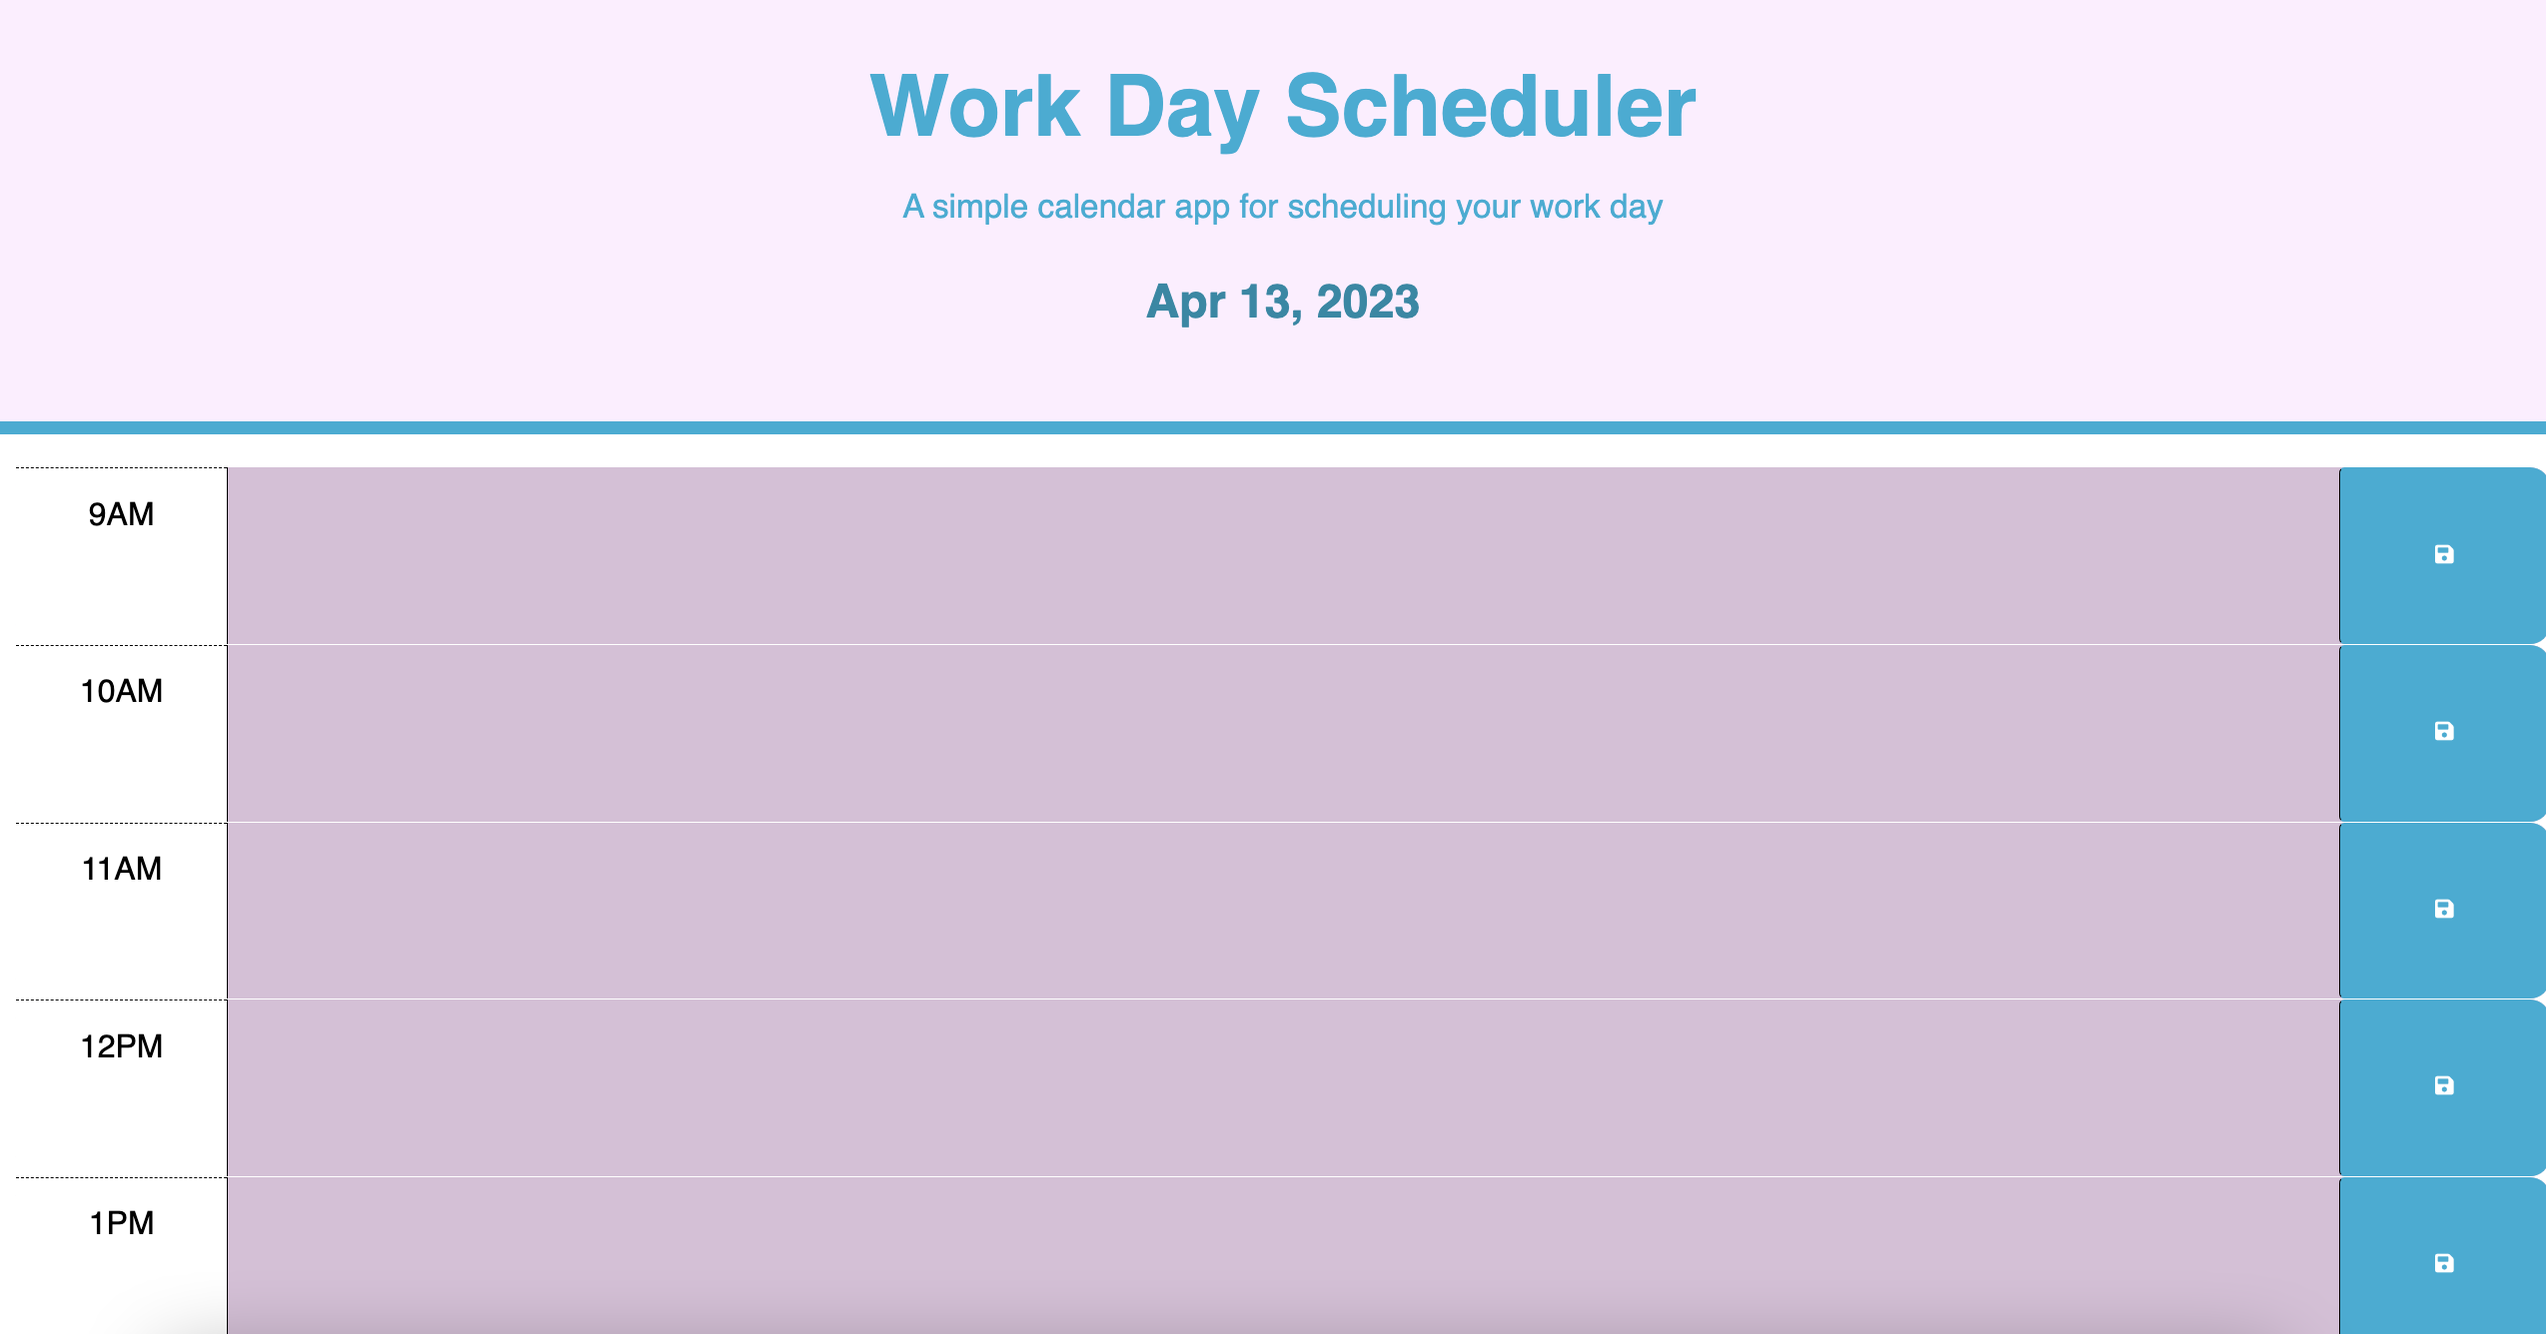
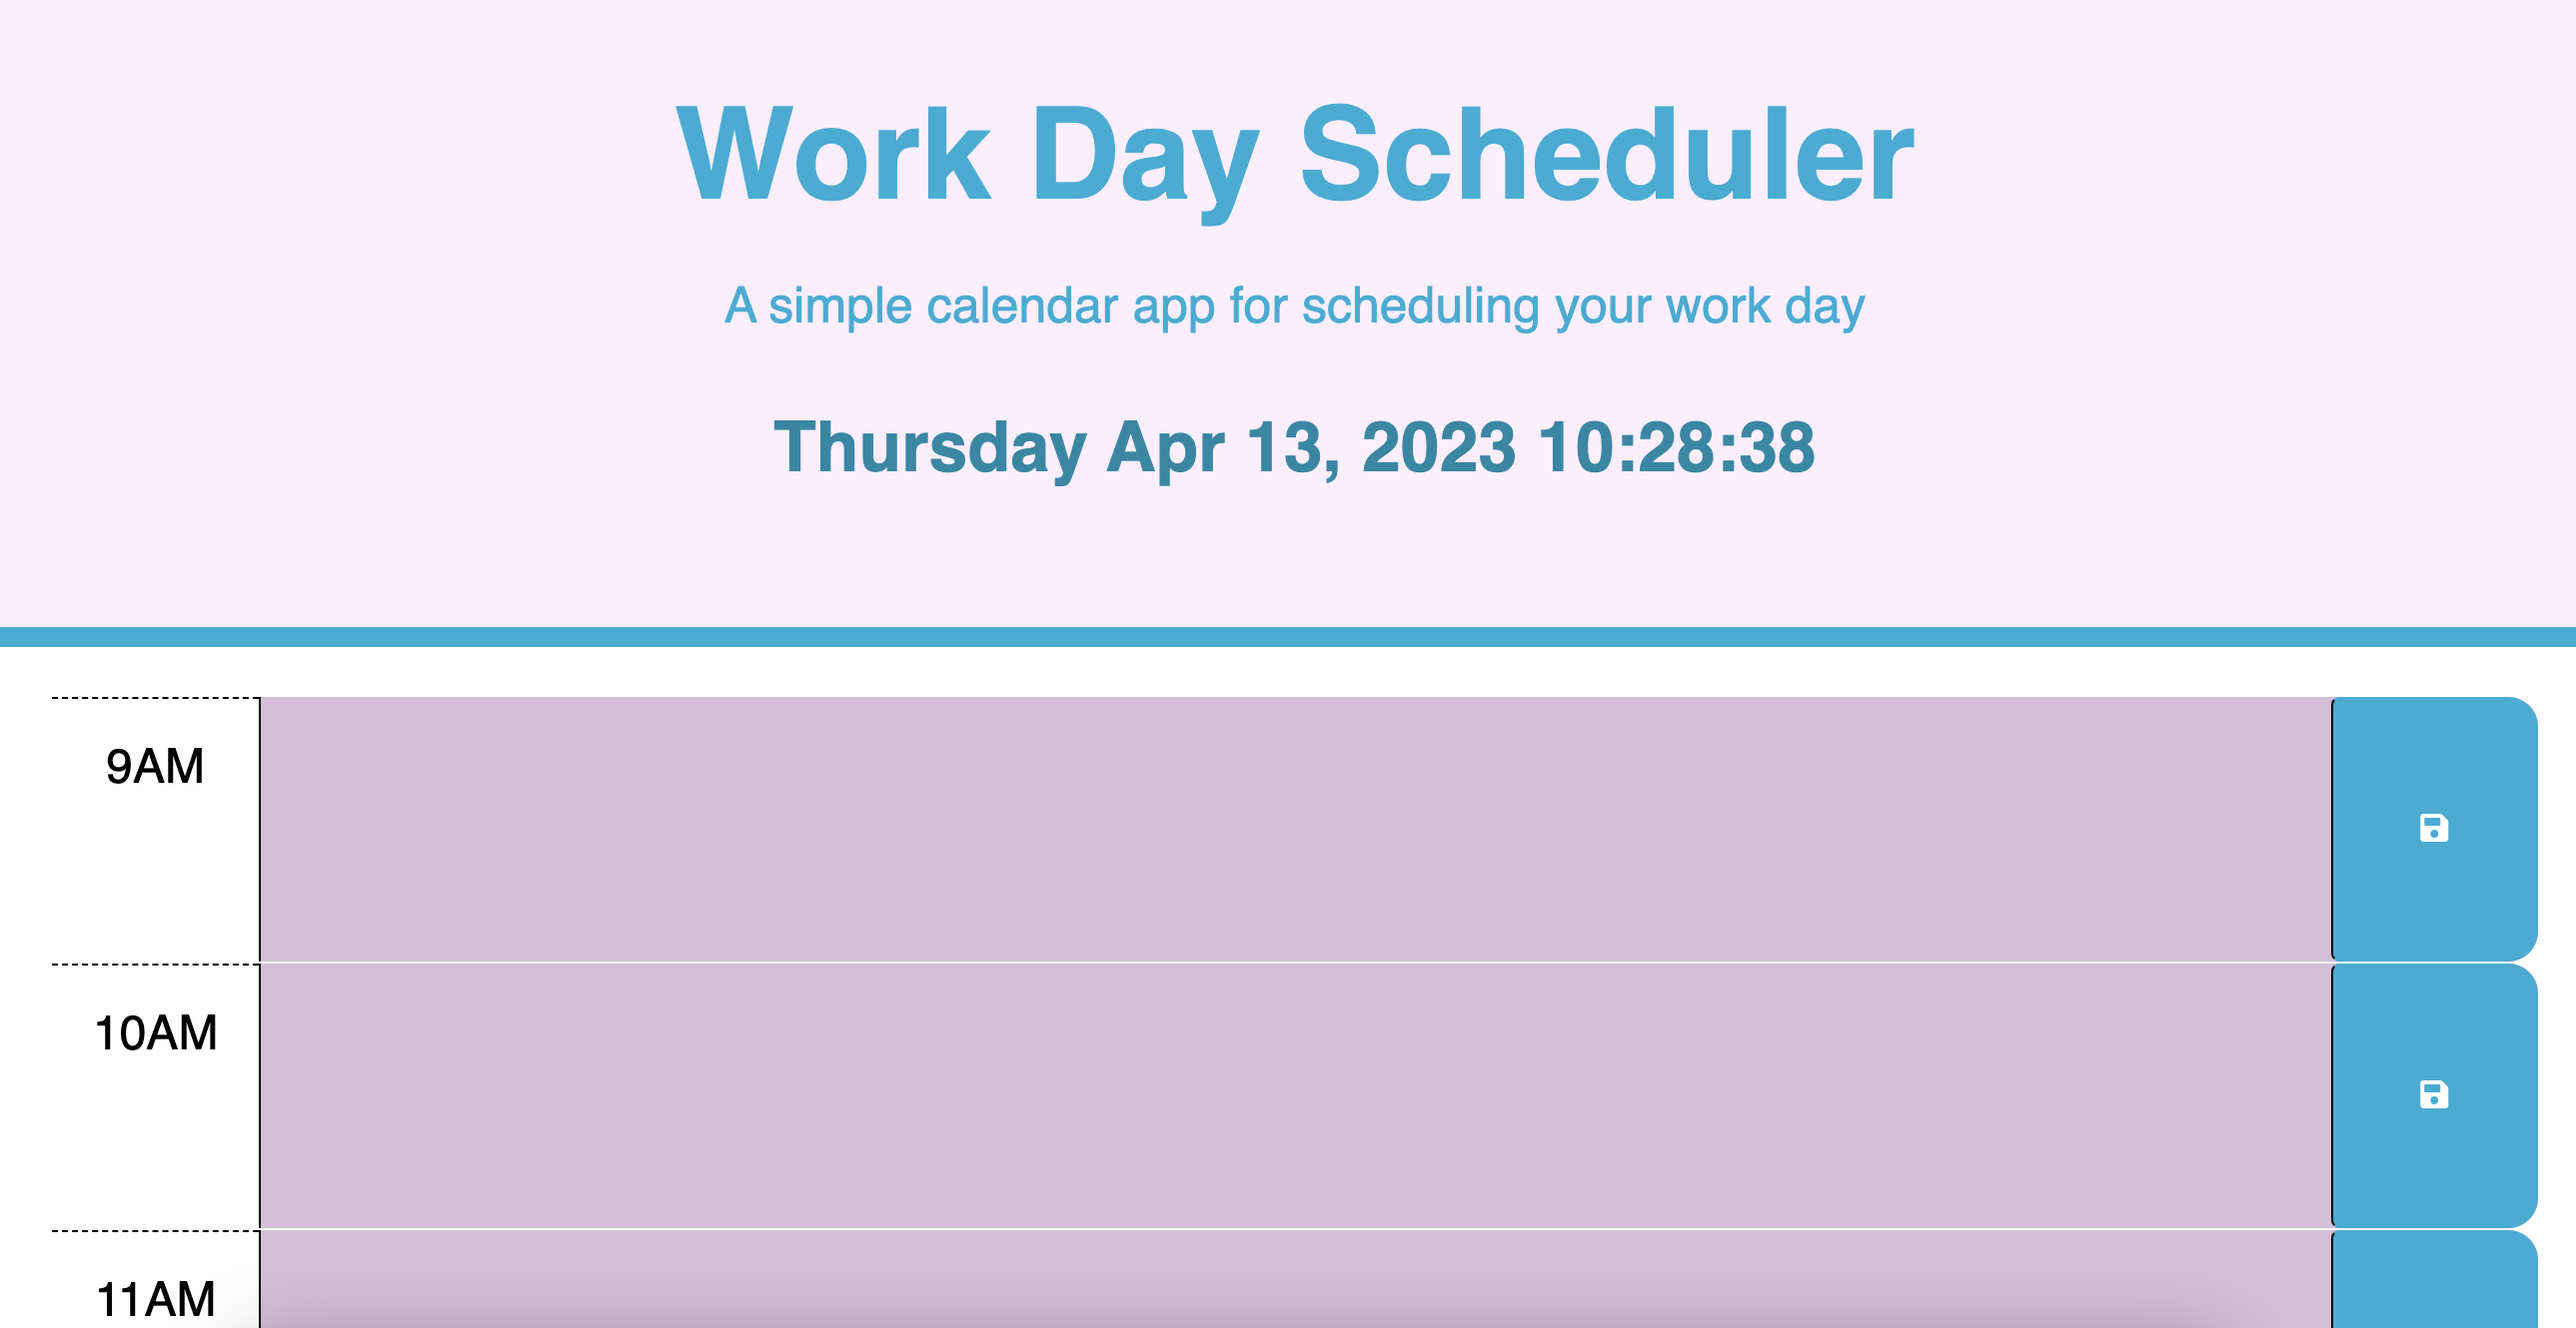
added day of the week and timer and finished Readme

Changed region(s): [[0.0, 0.3083, 1.0, 1.0], [0.248, 0.0308, 0.7441, 0.185], [0.279, 0.2158, 0.7441, 0.2466]]

diff --git a/Assets/script.js b/Assets/script.js
@@ -11,44 +11,47 @@ var currentTime;
 var eventTime;
 var eventList;
 
-  // event listener for save button. Jessica Saddington, Emma Carr, and Diem Ly helped me come up with this
-  $('.saveBtn').click(function () {
-      eventList = $(this).siblings('.description').val();
-      eventTime = $(this).parent().attr('id');
+// event listener for save button. Jessica Saddington, Emma Carr, and Diem Ly helped me come up with this
+$('.saveBtn').click(function () {
+  eventList = $(this).siblings('.description').val();
+  eventTime = $(this).parent().attr('id');
 
-      localStorage.setItem(eventTime, eventList);
-  });
-
-
-  // colors depicting past(pink), present(blue), and future(green) times.
-  $('.time-block').each(function () {
-    currentTime = dayjs().hour();
-    eventTime = parseInt($(this).attr('id').split('-')[1]);
-
-    if (eventTime === currentTime) {
-      $(this).addClass('present');
-    }
-    else if (eventTime < currentTime) {
-      $(this).addClass('past');
-    }
-    else
-      $(this).addClass('future');
-  });
+  localStorage.setItem(eventTime, eventList);
+});
 
 
-  // TODO: Add code to get any user input that was saved in localStorage and set
-  // the values of the corresponding textarea elements. HINT: How can the id attribute of each time-block be used to do this?
+// colors depicting past(pink), present(blue), and future(green) times.
+$('.time-block').each(function () {
+  currentTime = dayjs().hour();
+  eventTime = parseInt($(this).attr('id').split('-')[1]);
 
-  
-  // Jessica Saddington helped me with this for-loop
-  for (i = 9; i <= 17; i++) {
-    $(`#hour - ${i}.eventTime`).val(localStorage.getItem(`hour - ${i}`));
-  };
-
-  // current date 
-  function showDate() {
-    dateToday = dayjs().format('MMM DD, YYYY');
-    timeDisplayEl.text(dateToday);
+  if (eventTime === currentTime) {
+    $(this).addClass('present');
   }
+  else if (eventTime < currentTime) {
+    $(this).addClass('past');
+  }
+  else
+    $(this).addClass('future');
+});
 
-  showDate();
+
+// TODO: Add code to get any user input that was saved in localStorage and set
+// the values of the corresponding textarea elements. HINT: How can the id attribute of each time-block be used to do this?
+
+
+// Jessica Saddington helped me with this for-loop
+for (i = 9; i <= 17; i++) {
+  $(`#hour - ${i}.eventTime`).val(localStorage.getItem(`hour - ${i}`));
+};
+
+// current date 
+function showDate() {
+  dateToday = dayjs().format('dddd MMM DD, YYYY hh:mm:ss');
+  timeDisplayEl.text(dateToday);
+}
+
+showDate();
+setInterval(showDate, 1000);
+
+

diff --git a/README.md b/README.md
@@ -1,11 +1,11 @@
 # Work-Day Calendar
 
 ## Description
-I've created an interactive calendar where you can save your events. The colors of events change depending on the time of day. The background colors change depending on whether the event is in the past, present, for future. The color is pink for the past, blue for the present, and green for the future.
+I've created an interactive, color-coded calendar where you can save your events for the workday. The background colors change depending on whether the event is in the past (pink), present (blue), or future (green). 
 
 ![Main](./Assets/Calendar-main.png)
 
-Link to live page: 
+Link to live page: https://lkrum.github.io/Work-Day-Scheduler/
 
 ## Installation
 N/A
@@ -14,11 +14,14 @@ N/A
 Click into one of the table rows to log your events for the day. Click the save button on the right side to save your text input.
 
 ## Credits 
+I used Bootstrap, Jquery, and Day.js to make my application.
 
-- [W3schools](https://www.w3schools.com/jsref/met_loc_assign.asp
-- [W3schools]https://www.w3schools.com/jsref/event_target.asp)
-- [W3schools](https://www.w3schools.com/tags/tag_input.asp)
+- [W3schools](https://www.w3schools.com/jsref/jsref_split.asp)
+- [W3schools](https://developer.mozilla.org/en-US/docs/Web/JavaScript/Reference/Global_Objects/parseInt)
+- [W3schools](https://www.w3schools.com/jquery/jquery_events.asp)
 - [W3schools](https://www.w3schools.com/tags/tag_button.asp)
+- [mozilla](https://developer.mozilla.org/en-US/docs/Web/JavaScript/Reference/Template_literals)
+- [Jquery](https://api.jquery.com/attr/)
 - Diem Ly, one of the class TAs, helped me write the formula for getting the save button to function.
 - My classmates Emma Carr and Jessica Saddington also helped me with the save button, JQuery formatting, and the hour id for-loop.
 
